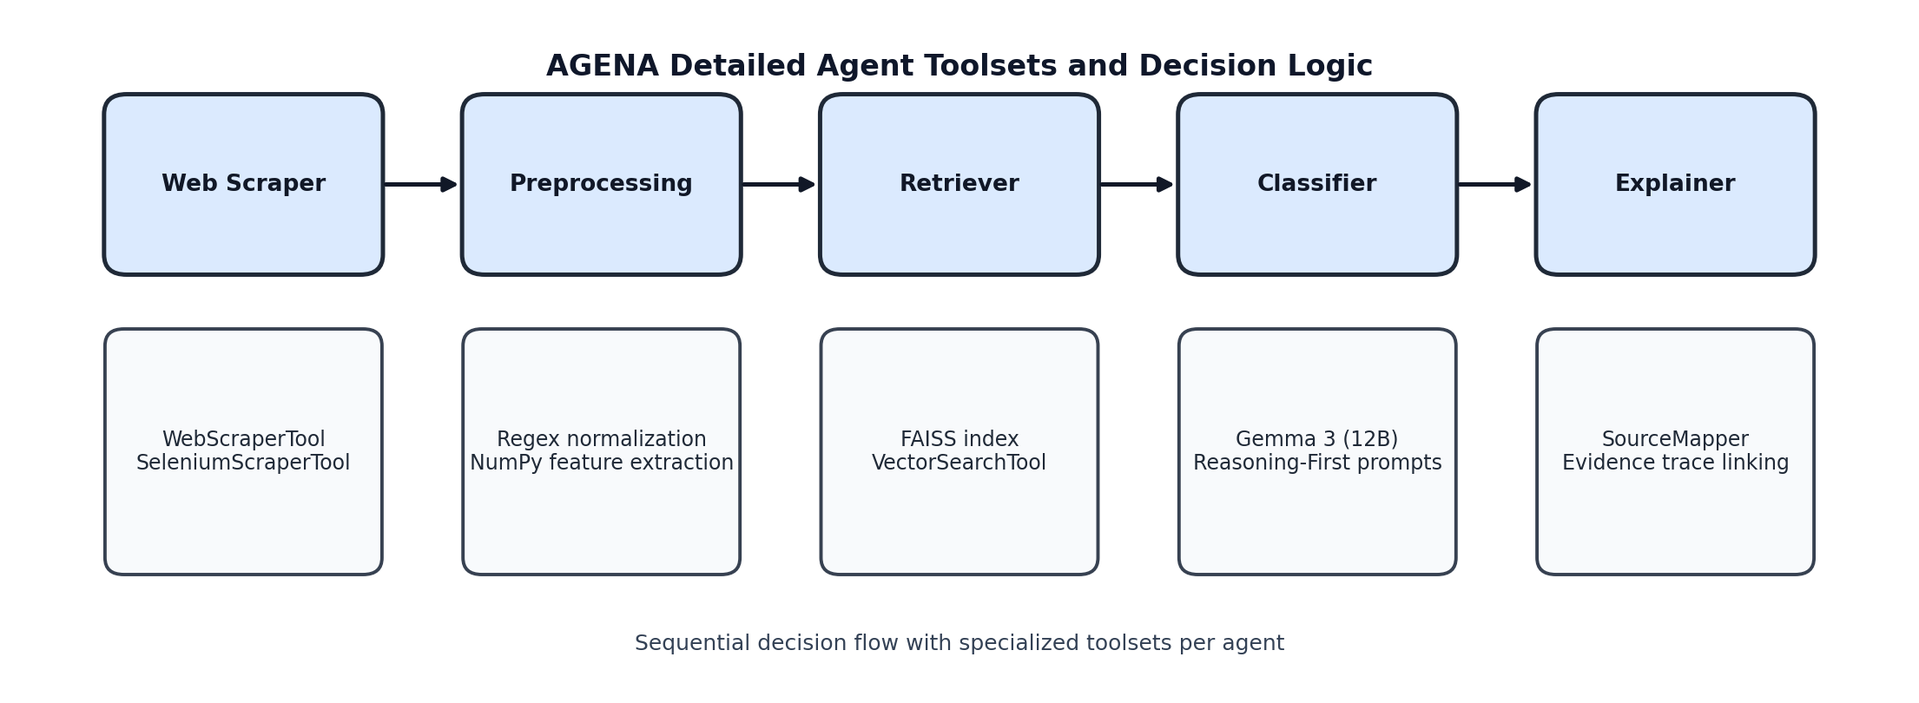
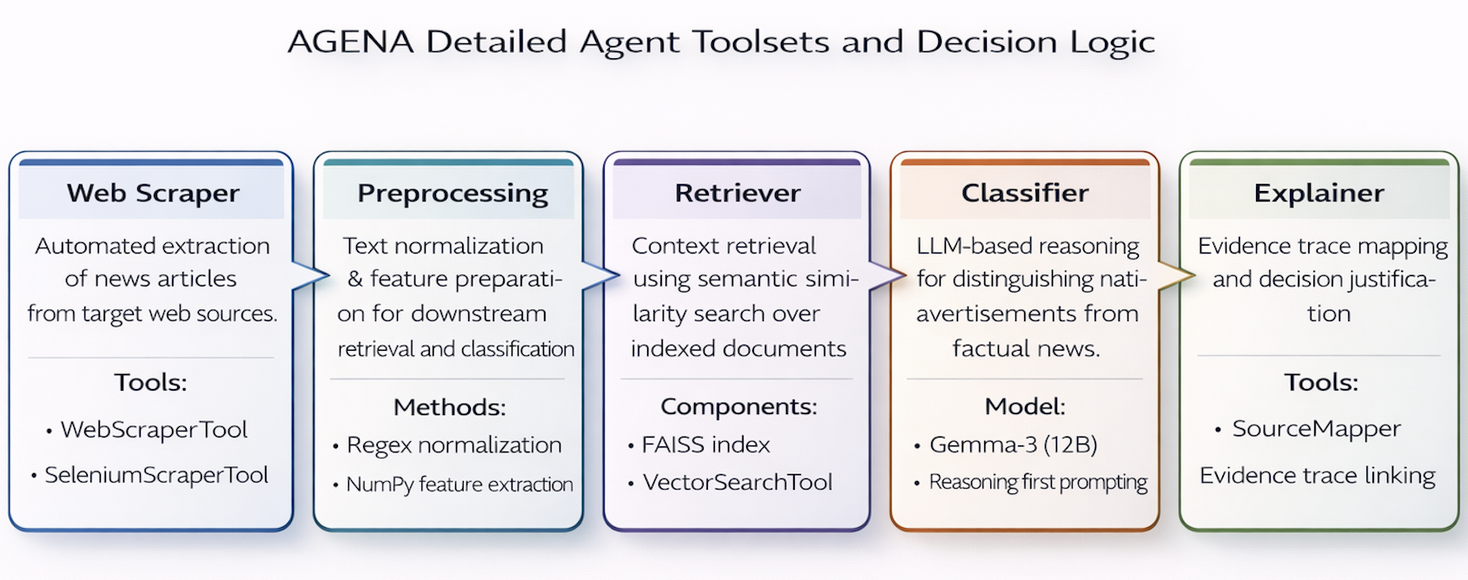
docs: Refine agent descriptions, update technical terminology, and improve clarity in the article.

diff --git a/langchain-refactor/article/example.tex b/langchain-refactor/article/example.tex
@@ -182,18 +182,18 @@ Agen pendahuluan deterministik ini memanfaatkan toolset \texttt{Web\allowbreak S
 \subsubsection{Agen Preprocessing (Non-AI)}
 Mirip kerangka kerja \textit{Scraper}, langkah \textit{preprocessing} secara eksklusif menggunakan algoritma rekayasa deterministik standar (non-AI):
 \begin{enumerate}
-    \item \textbf{Normalisasi Teks}: Algoritme Regex digunakan untuk mendeteksi hierarki semantik artikel, menghapus frasa redudansi spasial, dan URL gantung.
-    \item \textbf{Ekstraksi Fitur}: Mengkompilasi pustaka sintaktik leksikon dan kalkulasi larik \texttt{numpy} untuk variabel densitas panjang tulisan, frasa unik persentase, serta koefisien porsi huruf kapital secara statistik terprogram tanpa inferensi NLP tingkat dalam.
+    \item \textbf{Normalisasi Teks}: \textit{Regex normalization} digunakan untuk mendeteksi hierarki semantik artikel, menghapus frasa redudansi spasial, dan URL gantung.
+    \item \textbf{Ekstraksi Fitur}: Mengkompilasi pustaka sintaktik leksikon dan \textit{NumPy feature extraction} untuk variabel densitas panjang tulisan, frasa unik persentase, serta koefisien porsi huruf kapital secara statistik terprogram tanpa inferensi NLP tingkat dalam.
 \end{enumerate}
 
 \subsubsection{Agen Retriever}
 Agen Retriever mengimplementasikan \textit{retrieval} semantik menggunakan indeks FAISS yang didukung oleh \textit{sentence embedding} yang dihasilkan dengan \texttt{sentence-transformers/all-MiniLM-L6-v2}. Untuk setiap artikel input, agen mengkueri indeks FAISS melalui \texttt{VectorSearch\allowbreak Tool}, yang memanggil \texttt{similarity\allowbreak\_search\allowbreak\_with\allowbreak\_score} untuk mengambil $k$ tetangga terdekat dari basis pengetahuan 12.088 artikel. Contoh-contoh yang diambil ini berfungsi sebagai bukti \textit{grounding} dalam konteks untuk Agen Classifier. Proses \textit{retrieval} diformalisasikan dalam Algoritma 1.
 
 \subsubsection{Agen Classifier}
-Agen ini adalah komponen penalaran inti dari \textit{pipeline}. Dalam eksperimen yang dilaporkan di sini, agen ini dibangun di atas Gemma 3 (12B) yang telah di-\textit{fine-tune} pada dataset iklan \textit{native} Indonesia menggunakan strategi \textit{Reasoning-First} yang dijelaskan di Bagian~\ref{sec:methods}. Batas keputusan agen dibentuk oleh \textit{prompt} hierarkis yang mencakup lapisan \textit{persona} (mendefinisikan agen sebagai editor berita senior), lapisan domain yang menyandikan standar editorial Indonesia, dan lapisan \textit{constraint} yang menerapkan skema keluaran JSON terstruktur untuk \textit{parsing} hilir.
+Agen ini adalah komponen penalaran inti dari \textit{pipeline}. Dalam eksperimen yang dilaporkan di sini, agen ini dibangun di atas Gemma-3 (12B) yang telah di-\textit{fine-tune} pada dataset iklan \textit{native} Indonesia menggunakan strategi \textit{Reasoning first prompting} yang dijelaskan di Bagian~\ref{sec:methods}. Batas keputusan agen dibentuk oleh \textit{prompt} hierarkis yang mencakup lapisan \textit{persona} (mendefinisikan agen sebagai editor berita senior), lapisan domain yang menyandikan standar editorial Indonesia, dan lapisan \textit{constraint} yang menerapkan skema keluaran JSON terstruktur untuk \textit{parsing} hilir.
 
 \subsubsection{Agen Explainer}
-Agen ini beroperasi sebagai \textit{post-processor} untuk keluaran LLM. Agen ini memanfaatkan alat \texttt{Source\allowbreak Mapper} untuk menghubungkan klaim penalaran spesifik kembali ke cuplikan teks asli. Misalnya, jika \textit{Classifier} mengidentifikasi ``Penyebutan merek yang berlebihan'', Agen Explainer memindai teks untuk memberikan frekuensi dan lokasi tepat dari nama merek tersebut, memberikan verifikasi empiris atas klaim model.
+Agen ini beroperasi sebagai \textit{post-processor} untuk keluaran LLM. Agen ini memanfaatkan alat \texttt{Source\allowbreak Mapper} untuk melakukan \textit{Evidence trace linking}, menghubungkan klaim penalaran spesifik kembali ke cuplikan teks asli. Misalnya, jika \textit{Classifier} mengidentifikasi ``Penyebutan merek yang berlebihan'', Agen Explainer memindai teks untuk memberikan frekuensi dan lokasi tepat dari nama merek tersebut, memberikan verifikasi empiris atas klaim model.
 
 \subsection{Kedalaman Algoritmik}
 Logika operasional inti untuk penalaran berbasis RAG disajikan dalam Algoritma 1, sedangkan strategi penyelarasan ``\textit{Reasoning-First}'' khusus didefinisikan dalam Algoritma 2.
@@ -252,7 +252,7 @@ Untuk memperjelas perbedaan tingkat-model, Gambar~\ref{fig:model_architectures} 
 \label{fig:model_architectures}
 \end{figure}
 
-Seperti ditunjukkan pada Gambar~\ref{fig:model_architectures}, Gemma 3 12B adalah \textit{backbone} produksi utama dalam AGENA karena menawarkan kualitas penalaran yang kuat dengan adaptasi yang hemat parameter dan perilaku stabil pada \textit{Berita Batas}. Pada gambar yang sama, Qwen 14B memberikan kapasitas representasi tinggi dan kinerja kepatuhan instruksi yang kompetitif, namun dalam pengaturan kami lebih rentan memicu isyarat promosi secara berlebihan pada berita ambigu.
+Seperti ditunjukkan pada Gambar~\ref{fig:model_architectures}, Gemma 3 12B adalah \textit{backbone} produksi utama dalam AGENA karena menawarkan kualitas penalaran yang kuat dengan adaptasi yang hemat parameter dan perilaku stabil pada \textit{Pelaporan Merek Non-Promosi}. Pada gambar yang sama, Qwen 14B memberikan kapasitas representasi tinggi dan kinerja kepatuhan instruksi yang kompetitif, namun dalam pengaturan kami lebih rentan memicu isyarat promosi secara berlebihan pada berita ambigu.
 
 Selain itu, Llama 3.1 8B dipilih sebagai \textit{baseline} yang ringkas namun mumpuni dengan kebutuhan komputasi yang lebih rendah dan perilaku \textit{fine-tuning} yang dapat diprediksi. Akhirnya, GPT-OSS 20B disertakan untuk memeriksa arsitektur \textit{open-weight} yang lebih besar di bawah jadwal adaptasi yang terbatas. Desain lintas arsitektur ini memungkinkan kami membandingkan tidak hanya akurasi, tetapi juga konsistensi penalaran, kalibrasi dalam sampel batas, dan pengorbanan implementasi praktis antara ukuran model dan kualitas interpretabilitas.
 
@@ -314,17 +314,17 @@ Gemma 3 (270M) & 0,520 & 0,547 & 0,480 & 52,00\% \\
 
 Tabel~\ref{tab:results_consolidated} mengonsolidasikan tiga perspektif evaluasi ke dalam satu referensi: perbandingan lintas model (Kelompok A), studi ablasi (Kelompok B), dan perbandingan terhadap \textit{baseline} SENADA yang sebelumnya menjadi \textit{state-of-the-art} (Kelompok C).
 
-\textbf{Analisis tingkat model (Kelompok A).} Hasil penyelarasan \textit{prompt} ``\textit{Reasoning-First}'' mengungkap gradien performa yang jelas mengikuti skala model dan kemampuan mengikuti instruksi. Gemma 3 (12B) mencapai akurasi keseluruhan tertinggi pada 94,50\%, dengan presisi 0,938 pada kelas Iklan \textit{Native}. Model ini menangani kasus-kasus paling menantang secara efektif --- terutama, model ini berhasil mengidentifikasi konten editorial yang menyebutkan entitas perusahaan tanpa pembingkaian promosi (\textit{Berita Batas}), sebuah tugas yang gagal dilakukan oleh beberapa model berparameter lebih besar. Gemma 3 (4B) mencapai 92,00\%, sedikit mengungguli Gemma 2 (9B) yang lebih lama pada 90,50\%, membuktikan bahwa peningkatan arsitektur dalam generasi Gemma terbaru berkontribusi signifikan terhadap kualitas mengikuti instruksi dalam tugas domain-spesifik.
+\textbf{Analisis tingkat model (Kelompok A).} Hasil penyelarasan \textit{prompt} ``\textit{Reasoning-First}'' mengungkap gradien performa yang jelas mengikuti skala model dan kemampuan mengikuti instruksi. Gemma 3 (12B) mencapai akurasi keseluruhan tertinggi pada 94,50\%, dengan presisi 0,938 pada kelas Iklan \textit{Native}. Model ini menangani kasus-kasus paling menantang secara efektif --- terutama, model ini berhasil mengidentifikasi konten editorial yang menyebutkan entitas perusahaan tanpa pembingkaian promosi (\textit{Pelaporan Merek Non-Promosi}), sebuah tugas yang gagal dilakukan oleh beberapa model berparameter lebih besar. Gemma 3 (4B) mencapai 92,00\%, sedikit mengungguli Gemma 2 (9B) yang lebih lama pada 90,50\%, membuktikan bahwa peningkatan arsitektur dalam generasi Gemma terbaru berkontribusi signifikan terhadap kualitas mengikuti instruksi dalam tugas domain-spesifik.
 
 Seiring penurunan ukuran model di bawah parameter 1B, penalaran yang andal menjadi sulit dipertahankan. Gemma 3 (1B) turun ke 76,50\%, menunjukkan \textit{recall} sangat tinggi (0,979) namun presisi rendah (0,676), mengindikasikan kecenderungan sistematis untuk menandai penyebutan merek secara berlebihan sebagai promosi terlepas dari konteks editorial. Model 270M mendapat skor 52,00\% dan sering menghasilkan keluaran yang tidak valid atau tidak lengkap secara struktural, membuktikan bahwa format JSON \textit{Reasoning-First} tidak kompatibel dengan arsitektur sub-500M parameter. Qwen 2.5 14B (71,50\%) dan Llama 3.1 8B (61,50\%) berkinerja kurang baik relatif terhadap jumlah parameter mereka, kemungkinan karena korpus pra-pelatihannya tidak mencakup data jurnalisme Indonesia yang cukup untuk mendukung diskriminasi halus antara pembingkaian komersial dan editorial. GPT-OSS (57,50\%) menunjukkan perilaku serupa, mengandalkan pencocokan kata kunci tingkat permukaan daripada penalaran kontekstual. Hasil-hasil ini menegaskan pilihan desain untuk memusatkan Agen Classifier AGENA pada Gemma 3 12B, sekaligus membuktikan bahwa arsitektur \textit{pipeline} itu sendiri --- bukan jumlah parameter \textit{backbone} semata --- yang mendorong performa tingkat teratas sistem.
 
 \textbf{Studi ablasi (Kelompok B).} Studi ablasi secara bertahap menambahkan komponen \textit{pipeline} untuk mengisolasi kontribusi individual masing-masing agen, menggunakan \textit{backbone} Gemma 3 12B di semua konfigurasi.
 
-\textit{(1) Baseline (Zero-Shot), Akurasi: 78,4\%, F1: 0,762.} Ini adalah model Gemma 3 12B tanpa augmentasi, diterapkan langsung pada artikel tanpa \textit{preprocessing}, pengambilan konteks, atau \textit{prompt} terstruktur apapun. Konfigurasi ini mewakili batas atas performa yang dapat dicapai melalui generalisasi dalam-konteks saja. Pada 78,4\%, model sudah menunjukkan kesadaran domain yang cukup baik, namun sering melakukan kesalahan pada \textit{Berita Batas} --- kasus di mana penyebutan merek muncul dalam konteks pelaporan faktual murni --- karena tidak memiliki referensi eksternal untuk membedakan nada editorial dari pembingkaian promosi.
+\textit{(1) Baseline (Zero-Shot), Akurasi: 78,4\%, F1: 0,762.} Ini adalah model Gemma 3 12B tanpa augmentasi, diterapkan langsung pada artikel tanpa \textit{preprocessing}, pengambilan konteks, atau \textit{prompt} terstruktur apapun. Konfigurasi ini mewakili batas atas performa yang dapat dicapai melalui generalisasi dalam-konteks saja. Pada 78,4\%, model sudah menunjukkan kesadaran domain yang cukup baik, namun sering melakukan kesalahan pada \textit{Pelaporan Merek Non-Promosi} --- kasus di mana penyebutan merek muncul dalam konteks pelaporan faktual murni --- karena tidak memiliki referensi eksternal untuk membedakan nada editorial dari pembingkaian promosi.
 
 \textit{(2) Classifier + Preprocessing saja, Akurasi: 84,6\%, F1: 0,831.} Penambahan Agen Preprocessing --- yang mengekstraksi fitur linguistik terstruktur seperti densitas leksikon, rasio kapitalisasi, dan penghitungan isyarat persuasif --- menghasilkan gain akurasi +6,2 poin. Hal ini mengonfirmasi bahwa sinyal fitur berbasis aturan yang eksplisit memberikan panduan bermakna bagi Agen Classifier, membantu memprioritaskan indikator statistik niat promosi dan mengurangi sensitivitas terhadap pemicu kata kunci permukaan yang menyebabkan kesalahan pada \textit{baseline zero-shot}.
 
-\textit{(3) Classifier + RAG (tanpa Preprocessing), Akurasi: 91,2\%, F1: 0,898.} Menggantikan \textit{preprocessing} dengan Agen Retriever dan basis pengetahuan berbasis FAISS menghasilkan gain terbesar dalam studi ini: +12,8 poin dibandingkan \textit{baseline zero-shot} dan +6,6 poin dibandingkan varian \textit{preprocessing}-saja. Agen Retriever menyediakan Classifier dengan lima artikel historis yang paling semantis serupa beserta label \textit{ground truth}-nya dari basis pengetahuan 12.088 artikel. Bukti dalam konteks dari contoh-contoh terverifikasi ini terbukti jauh lebih diskriminatif dibandingkan sinyal fitur buatan tangan, terutama untuk kasus \textit{Berita Batas} di mana perbedaan halus dalam pembingkaian naratif --- bukan kata kunci permukaan --- yang menentukan label yang benar.
+\textit{(3) Classifier + RAG (tanpa Preprocessing), Akurasi: 91,2\%, F1: 0,898.} Menggantikan \textit{preprocessing} dengan Agen Retriever dan basis pengetahuan berbasis FAISS menghasilkan gain terbesar dalam studi ini: +12,8 poin dibandingkan \textit{baseline zero-shot} dan +6,6 poin dibandingkan varian \textit{preprocessing}-saja. Agen Retriever menyediakan Classifier dengan lima artikel historis yang paling semantis serupa beserta label \textit{ground truth}-nya dari basis pengetahuan 12.088 artikel. Bukti dalam konteks dari contoh-contoh terverifikasi ini terbukti jauh lebih diskriminatif dibandingkan sinyal fitur buatan tangan, terutama untuk kasus \textit{Pelaporan Merek Non-Promosi} di mana perbedaan halus dalam pembingkaian naratif --- bukan kata kunci permukaan --- yang menentukan label yang benar.
 
 \textit{(4) Pipeline AGENA Penuh, Akurasi: 94,5\%, F1: 0,943.} Sistem lima agen penuh, yang menggabungkan Preprocessing, RAG, Classifier, dan Explainer, mencapai gain +3,3 poin lebih lanjut dibandingkan varian RAG-saja. Efek gabungan ini mencerminkan dua mekanisme: pertama, Agen Preprocessing menstabilkan representasi \textit{input} Classifier di semua format portal yang heterogen, mengurangi variansi dalam teks artikel yang diekstraksi; kedua, format keluaran JSON terstruktur dari Agen Explainer menegakkan konsistensi pada langkah Classifier, mengurangi kegagalan \textit{parsing} respons yang dapat merambat sebagai label yang salah. Secara keseluruhan, faktor-faktor ini mendorong akurasi ke 94,5\\% dan mengonfirmasi bahwa setiap tahap \textit{pipeline} memberikan kontribusi yang dapat dipertanggungjawabkan secara individual terhadap hasil akhir.
 

diff --git a/langchain-refactor/article/access.tex b/langchain-refactor/article/access.tex
@@ -187,18 +187,18 @@ This deterministic preliminary agent utilizes the \texttt{Web\allowbreak Scraper
 \subsubsection{Preprocessing Agent (Non-AI)}
 Similar to the Scraper framework, the preprocessing step exclusively uses standard deterministic engineering algorithms (non-AI):
 \begin{enumerate}
-    \item \textbf{Text Normalization}: Regex algorithms are used to detect the semantic hierarchy of the article, removing spatial redundancy phrases and dangling URLs.
-    \item \textbf{Feature Extraction}: Compiles syntactic lexicon libraries and \texttt{numpy} array calculations for text length density variables, unique phrase percentages, and capitalization ratio coefficients in a programmatically statistical manner without deep NLP inference.
+    \item \textbf{Text Normalization}: Regex normalization is used to detect the semantic hierarchy of the article, removing spatial redundancy phrases and dangling URLs.
+    \item \textbf{Feature Extraction}: Compiles syntactic lexicon libraries and NumPy feature extraction for text length density variables, unique phrase percentages, and capitalization ratio coefficients in a programmatically statistical manner without deep NLP inference.
 \end{enumerate}
 
 \subsubsection{Retriever Agent}
 The Retriever Agent implements semantic retrieval using a FAISS (Facebook AI Similarity Search) index backed by sentence embeddings generated with \texttt{sentence\allowbreak-transformers/all\allowbreak-MiniLM\allowbreak-L6\allowbreak-v2}. For a given input article, the agent queries the FAISS index via a \texttt{VectorSearch\allowbreak Tool}, which calls \texttt{similarity\allowbreak\_search\allowbreak\_with\allowbreak\_score} to retrieve the top-$k$ nearest neighbors from the 12,088-article knowledge base. These retrieved examples serve as in-context grounding evidence for the Classifier Agent. The retrieval process is formalized in Algorithm 1.
 
 \subsubsection{Classifier Agent}
-This agent is the core reasoning component of the pipeline. In the experiments reported here, it is built upon Gemma 3 (12B), fine-tuned on the Indonesian native advertisement dataset using the Reasoning-First strategy described in Section~\ref{sec:methods}. The agent's decision boundary is shaped by a hierarchical prompt that includes a persona layer (defining the agent as a senior news editor), a domain layer encoding Indonesian editorial standards, and a constraint layer that enforces a structured JSON output schema for downstream parsing.
+This agent is the core reasoning component of the pipeline. In the experiments reported here, it is built upon Gemma-3 (12B), fine-tuned on the Indonesian native advertisement dataset using the Reasoning first prompting strategy described in Section~\ref{sec:methods}. The agent's decision boundary is shaped by a hierarchical prompt that includes a persona layer (defining the agent as a senior news editor), a domain layer encoding Indonesian editorial standards, and a constraint layer that enforces a structured JSON output schema for downstream parsing.
 
 \subsubsection{Explanation Agent}
-This agent operates as a post-processor for the LLM output. It utilizes a \texttt{Source\allowbreak Mapper} tool to link specific reasoning claims back to original text snippets. For example, if the Classifier identifies "Excessive brand mention," the Explanation Agent scans the text to provide the exact frequency and locations of that brand name, providing empirical verification for the model's claim.
+This agent operates as a post-processor for the LLM output. It utilizes a \texttt{Source\allowbreak Mapper} tool to perform Evidence trace linking, connecting specific reasoning claims back to original text snippets. For example, if the Classifier identifies "Excessive brand mention," the Explanation Agent scans the text to provide the exact frequency and locations of that brand name, providing empirical verification for the model's claim.
 
 \subsection{Algorithmic Depth}
 The core operational logic for the RAG-grounded reasoning is presented in Algorithm 1, while the specialized "Reasoning-First" alignment strategy is defined in Algorithm 2.
@@ -258,7 +258,7 @@ To make model-level differences explicit, Figure~\ref{fig:model_architectures} p
 \label{fig:model_architectures}
 \end{figure}
 
-As shown in Figure~\ref{fig:model_architectures}, Gemma 3 12B is the primary production backbone in AGENA because it offers strong reasoning quality under parameter-efficient adaptation and stable behavior on Borderline News cases. In the same figure, Qwen 14B provides high representational capacity and competitive instruction-following performance, but in our setting is more prone to over-triggering promotional cues in ambiguous news.
+As shown in Figure~\ref{fig:model_architectures}, Gemma 3 12B is the primary production backbone in AGENA because it offers strong reasoning quality under parameter-efficient adaptation and stable behavior on Non-Promotional Brand Reporting cases. In the same figure, Qwen 14B provides high representational capacity and competitive instruction-following performance, but in our setting is more prone to over-triggering promotional cues in ambiguous news.
 
 Additionally, Llama 3.1 8B was selected as a compact yet capable baseline with lower computational demand and predictable fine-tuning behavior. Finally, GPT-OSS 20B was included to examine a larger open-weight architecture under constrained adaptation schedules. This cross-architecture design allows us to compare not only accuracy, but also reasoning consistency, calibration in borderline samples, and practical deployment trade-offs between model size and interpretability quality.
 
@@ -321,17 +321,17 @@ Gemma 3 (270M) & 0.520 & 0.547 & 0.480 & 52.00\% \\
 
 Table~\ref{tab:results_consolidated} consolidates three evaluation perspectives into a single reference: the cross-model comparison (Group A), the ablation study (Group B), and the comparison against the prior state-of-the-art SENADA baseline (Group C).
 
-\textbf{Model-level analysis (Group A).} Results from the ``Reasoning-First'' prompt alignment reveal a clear performance gradient following model scale and instruction-following capability. Gemma 3 (12B) achieves the highest overall accuracy at 94.50\%, with a precision of 0.938 on the Native Ads class. This model handles the most challenging cases effectively --- most notably, it correctly identifies editorial content that mentions corporate entities without promotional framing (Borderline News), a task where several larger-parameter models fail. Gemma 3 (4B) achieves 92.00\%, narrowly outperforming the older Gemma 2 (9B) at 90.50\%, confirming that architectural advancements in the latest Gemma generation contribute meaningfully to domain-specific instruction-following quality, even at a smaller parameter count.
+\textbf{Model-level analysis (Group A).} Results from the ``Reasoning-First'' prompt alignment reveal a clear performance gradient following model scale and instruction-following capability. Gemma 3 (12B) achieves the highest overall accuracy at 94.50\%, with a precision of 0.938 on the Native Ads class. This model handles the most challenging cases effectively --- most notably, it correctly identifies editorial content that mentions corporate entities without promotional framing (Non-Promotional Brand Reporting), a task where several larger-parameter models fail. Gemma 3 (4B) achieves 92.00\%, narrowly outperforming the older Gemma 2 (9B) at 90.50\%, confirming that architectural advancements in the latest Gemma generation contribute meaningfully to domain-specific instruction-following quality, even at a smaller parameter count.
 
 As model size decreases below 1B parameters, reliable reasoning becomes difficult to maintain. Gemma 3 (1B) dropped to 76.50\%, exhibiting very high recall (0.979) but low precision (0.676), indicating a systematic tendency to over-flag brand mentions as promotional regardless of editorial context. The 270M model scored 52.00\% and frequently produced structurally invalid or incomplete outputs, confirming that the Reasoning-First JSON format is incompatible with sub-500M parameter architectures. Qwen 2.5 14B (71.50\%) and Llama 3.1 8B (61.50\%) underperformed relative to their parameter counts, likely because their pretraining corpora did not include sufficient Indonesian journalistic data to support fine-grained discrimination between commercial and editorial framing. GPT-OSS (57.50\%) exhibited similar behavior, defaulting to surface-level keyword matching rather than contextual reasoning. These results confirm the design choice of centering AGENA's Classifier Agent on Gemma 3 12B, and demonstrate that the pipeline architecture itself --- not the backbone model parameter count alone --- drives the system's top-tier performance.
 
 \textbf{Ablation study (Group B).} The ablation study progressively adds pipeline components to isolate the individual contribution of each agent, using the Gemma 3 12B backbone throughout all configurations.
 
-\textit{(1) Baseline (Zero-Shot), Accuracy: 78.4\%, F1: 0.762.} This is the unaugmented Gemma 3 12B model applied directly to the article without any preprocessing, retrieval, or structured prompting. It represents the performance ceiling achievable by raw in-context generalization alone. At 78.4\%, the model already demonstrates reasonable domain awareness, but makes frequent errors on Borderline News cases where brand mentions appear in purely factual reporting contexts, as it has no external reference to distinguish editorial tone from promotional framing.
+\textit{(1) Baseline (Zero-Shot), Accuracy: 78.4\%, F1: 0.762.} This is the unaugmented Gemma 3 12B model applied directly to the article without any preprocessing, retrieval, or structured prompting. It represents the performance ceiling achievable by raw in-context generalization alone. At 78.4\%, the model already demonstrates reasonable domain awareness, but makes frequent errors on Non-Promotional Brand Reporting cases where brand mentions appear in purely factual reporting contexts, as it has no external reference to distinguish editorial tone from promotional framing.
 
 \textit{(2) Classifier + Preprocessing only, Accuracy: 84.6\%, F1: 0.831.} Adding the Preprocessing Agent --- which extracts structured linguistic features such as lexical density, capitalization ratio, and persuasive cue counts --- yields a +6.2 point accuracy gain. This confirms that explicit, rule-based feature signals provide meaningful guidance to the Classifier Agent, helping it prioritize statistical indicators of promotional intent and reducing sensitivity to superficial keyword triggers that caused errors in the zero-shot baseline.
 
-\textit{(3) Classifier + RAG (no Preprocessing), Accuracy: 91.2\%, F1: 0.898.} Replacing preprocessing with the Retriever Agent and its FAISS-backed knowledge base produces the single largest gain in the study: +12.8 points over the zero-shot baseline and +6.6 points over the preprocessing-only variant. The Retriever provides the Classifier with the five most semantically similar historical articles and their ground-truth labels from the 12,088-article knowledge base. This in-context evidence from verified examples is evidently far more discriminative than hand-crafted feature signals, particularly for Borderline News cases where subtle differences in narrative framing --- not surface keywords --- determine the correct label.
+\textit{(3) Classifier + RAG (no Preprocessing), Accuracy: 91.2\%, F1: 0.898.} Replacing preprocessing with the Retriever Agent and its FAISS-backed knowledge base produces the single largest gain in the study: +12.8 points over the zero-shot baseline and +6.6 points over the preprocessing-only variant. The Retriever provides the Classifier with the five most semantically similar historical articles and their ground-truth labels from the 12,088-article knowledge base. This in-context evidence from verified examples is evidently far more discriminative than hand-crafted feature signals, particularly for Non-Promotional Brand Reporting cases where subtle differences in narrative framing --- not surface keywords --- determine the correct label.
 
 \textit{(4) Full AGENA Pipeline, Accuracy: 94.5\%, F1: 0.943.} The full five-agent system, combining Preprocessing, RAG, Classifier, and Explainer, achieves a further +3.3 point gain over the RAG-only variant. The compounding effect reflects two mechanisms: first, the Preprocessing Agent stabilizes the Classifier's input representation across heterogeneous portal formats, reducing variance in extracted article text; second, the Explainer Agent's structured JSON output format enforces consistency in the Classifier step, reducing response parsing failures that can propagate as incorrect labels. Together, these factors push accuracy to 94.5\% and confirm that each pipeline stage provides an independently justified contribution to the final result.
 
